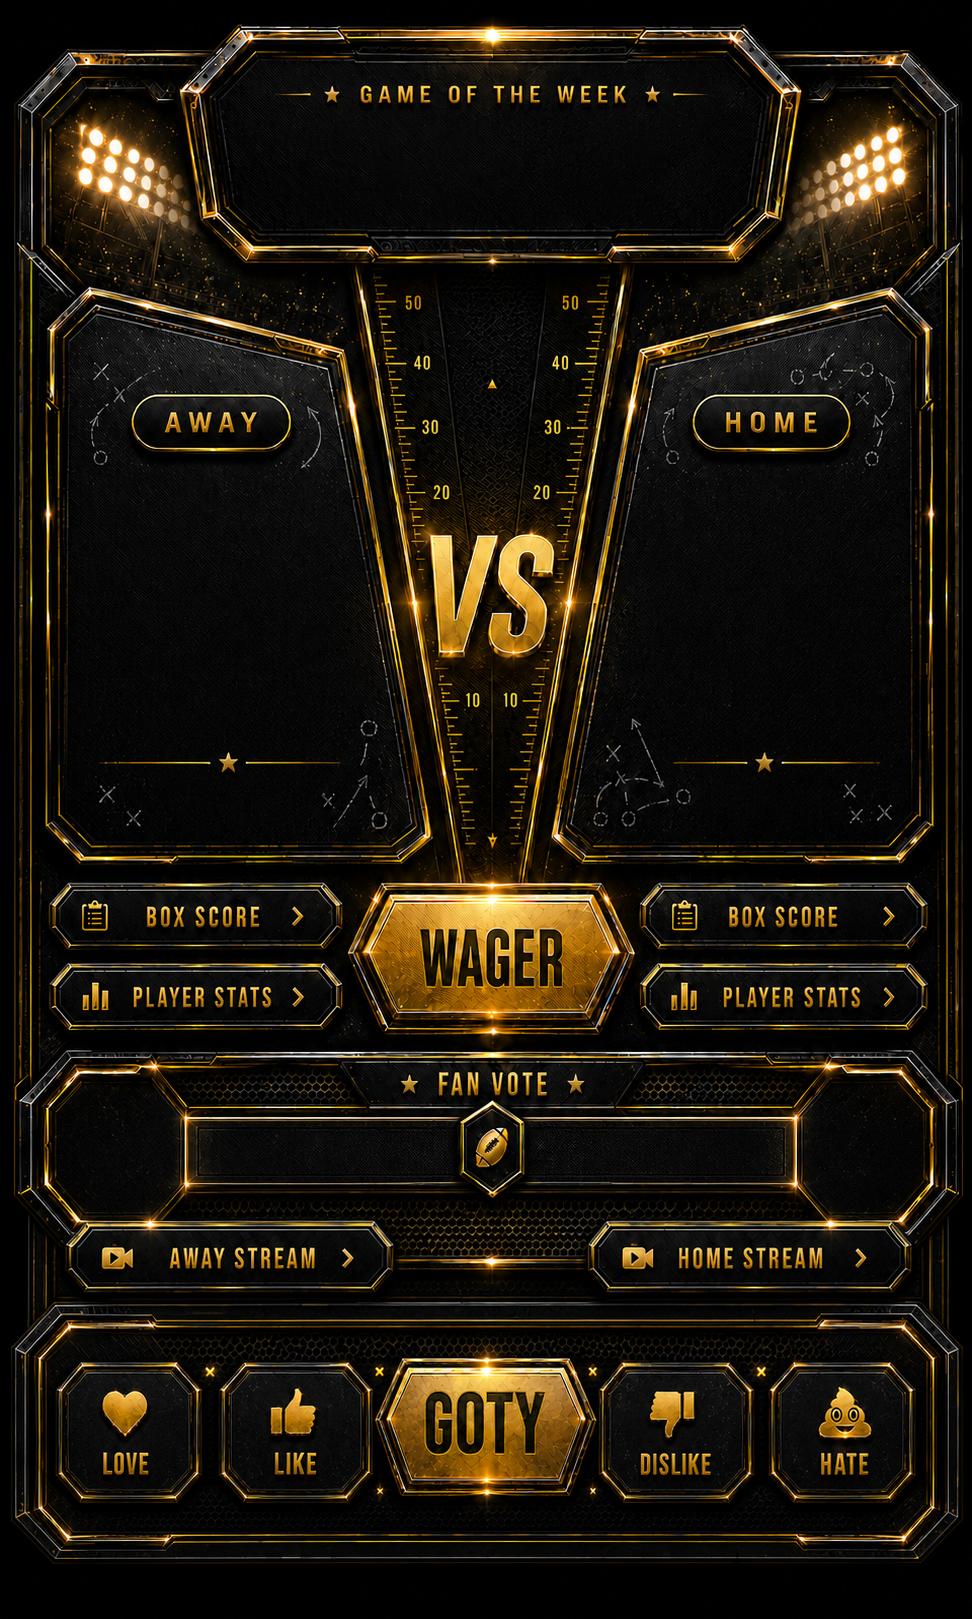
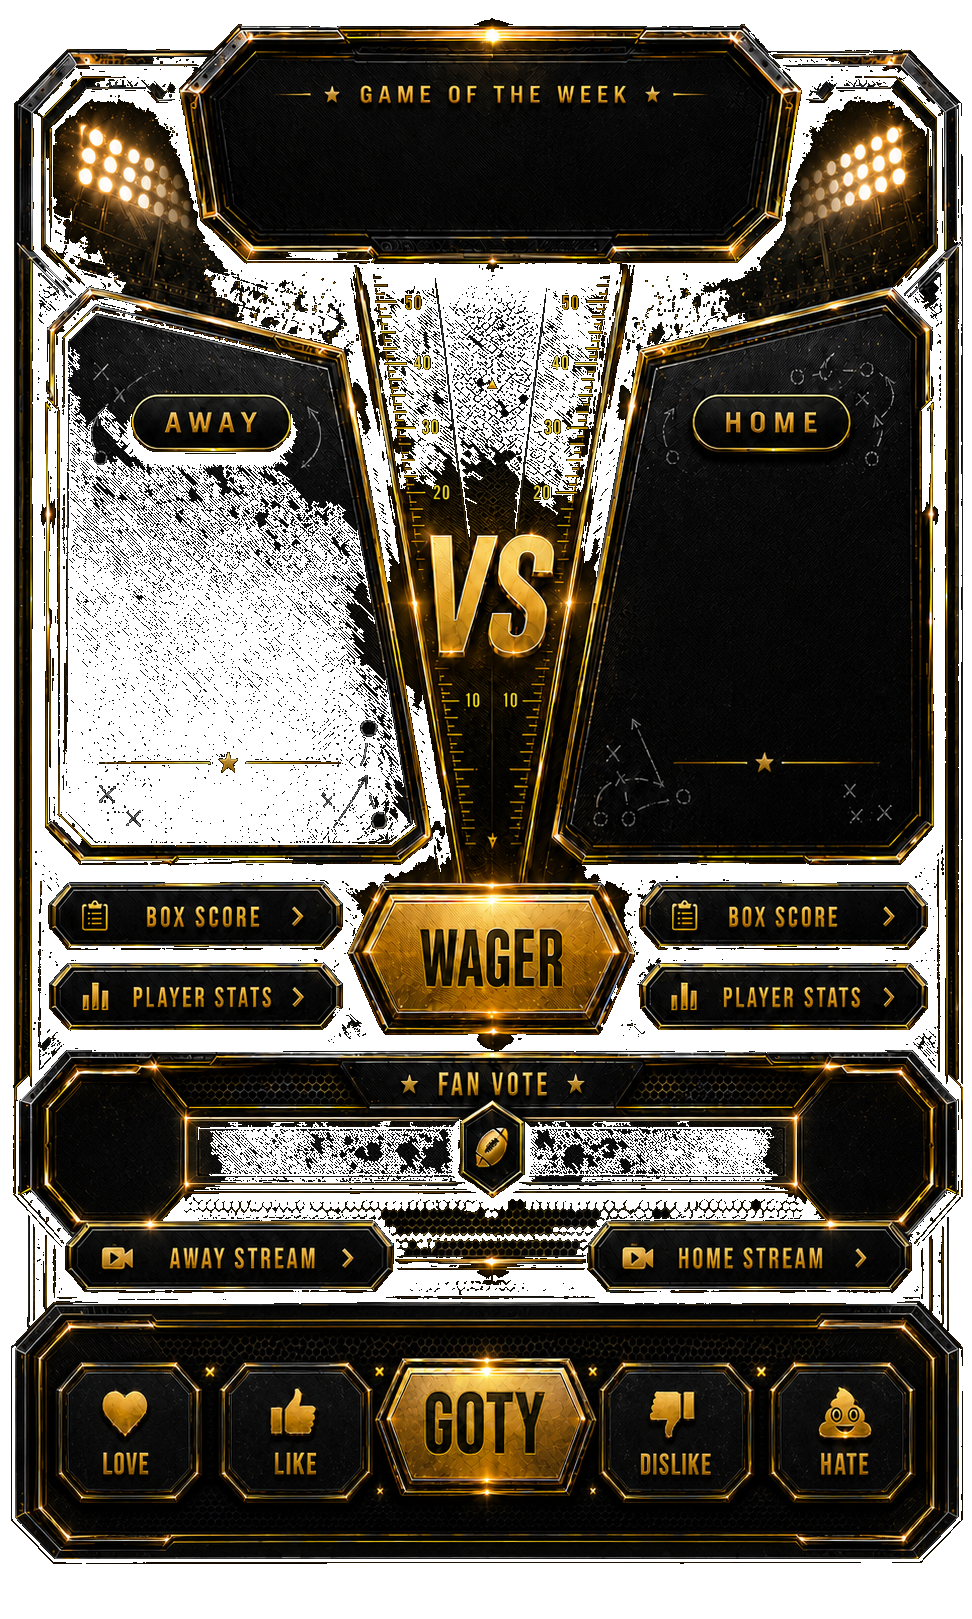
Align interactive matchup overlays to chassis art

Changed region(s): [[0.0, 0.0, 1.0, 1.0]]

diff --git a/apps/web/src/styles/hub.css b/apps/web/src/styles/hub.css
@@ -934,3 +934,83 @@
 .hub-nav-toggle::before { display:none !important; }
 .hub-nav-toggle svg { opacity:0 !important; }
 
+/* Mobile-safe chassis pass: the PNG is the only painted card.  Every remaining
+   element is a transparent, positioned hit target or a dynamic value. */
+.hub-matchup-schedule { gap:28px; }
+.hub-matchup-stack { background:transparent !important; }
+.hub-matchup-schedule .hub-matchup-card {
+  display:block !important;
+  position:relative !important;
+  width:100%;
+  aspect-ratio:2 / 3;
+  min-height:0;
+  padding:0 !important;
+  border:0 !important;
+  border-radius:0 !important;
+  background-color:transparent !important;
+  background-repeat:no-repeat !important;
+  background-size:100% 100% !important;
+  box-shadow:0 18px 42px rgba(0,0,0,.44) !important;
+  overflow:visible !important;
+}
+.hub-matchup-schedule .hub-matchup-card.gotw { aspect-ratio:972 / 1619; }
+.hub-matchup-schedule .hub-matchup-card.cpu { background-image:url("/assets/hub/matchup-h2h-chassis-v1.png") !important; }
+.hub-matchup-card > .hub-matchup-card-head,
+.hub-matchup-card > .hub-matchup-board,
+.hub-matchup-card > .hub-matchup-rails { position:absolute; left:0; right:0; width:auto; margin:0; }
+.hub-matchup-card > .hub-matchup-card-head { top:0; height:17%; display:block !important; padding:0 !important; background:transparent !important; border:0 !important; z-index:6; }
+.hub-matchup-card-head span,.hub-matchup-card-head small { display:none !important; }
+.hub-matchup-card-head strong { position:absolute; inset:56% 0 auto; display:block; padding:0 !important; color:#f4f2eb !important; font-family:var(--font-display); font-size:clamp(20px,5.2vw,48px) !important; font-weight:950; letter-spacing:.04em; line-height:1; text-align:center; text-shadow:0 3px 0 #111,0 0 12px rgba(255,215,73,.46); }
+.hub-matchup-card > .hub-matchup-board { top:17%; height:43.5%; display:grid !important; grid-template-columns:42% 16% 42% !important; gap:0 !important; padding:0 !important; align-items:stretch !important; z-index:5; }
+.hub-matchup-board .hub-team-side { position:relative; display:block !important; min-width:0; min-height:0 !important; height:100%; padding:0 !important; border:0 !important; border-radius:0 !important; background:transparent !important; box-shadow:none !important; text-align:center; color:#f1f1ef; }
+.hub-matchup-board .hub-team-side > span { display:none !important; }
+.hub-matchup-board .hub-team-side-vote { cursor:pointer; touch-action:manipulation; }
+.hub-matchup-board .hub-team-side-vote.away { clip-path:polygon(8% 1%,87% 4%,100% 11%,100% 91%,88% 98%,8% 96%,0 89%,0 11%); }
+.hub-matchup-board .hub-team-side-vote.home { clip-path:polygon(13% 4%,92% 1%,100% 11%,100% 89%,92% 96%,12% 98%,0 91%,0 11%); }
+.hub-matchup-board .hub-team-side-vote:hover:not(:disabled),.hub-matchup-board .hub-team-side-vote.active { background:rgba(217,165,33,.08) !important; box-shadow:inset 0 0 30px rgba(217,165,33,.18) !important; }
+.hub-matchup-board .hub-team-side-vote:active:not(:disabled) { transform:translateY(3px) scale(.985); filter:brightness(1.22); }
+.hub-matchup-board .hub-team-wordmark,.hub-matchup-board .hub-team-side b { position:absolute; top:43%; left:7%; width:86%; max-width:86%; margin:0; display:block; overflow:hidden; text-align:center; text-wrap:balance; font-size:clamp(20px,5.5vw,52px) !important; font-weight:950; letter-spacing:.01em; line-height:.94; white-space:normal; color:transparent !important; background:linear-gradient(180deg,#fffef7 0%,#e8e6dc 45%,#93908a 53%,#fffdf4 100%); -webkit-background-clip:text; background-clip:text; text-shadow:0 4px 0 #0a0a09,0 0 13px rgba(255,255,255,.16); transform:translateY(-50%) !important; }
+.hub-matchup-board .hub-team-side small { position:absolute; left:8%; right:8%; top:58%; display:block; margin:0; color:#d9d5c8 !important; font-family:var(--font-display); font-size:clamp(8px,1.55vw,13px) !important; font-weight:900; letter-spacing:.08em; line-height:1; text-align:center; text-transform:uppercase; text-shadow:0 2px 3px #000; }
+.hub-matchup-board .hub-team-side-vote small { display:none !important; }
+.hub-matchup-board .hub-team-side em { position:absolute; left:8%; right:8%; top:58%; display:block; margin:0; color:#d9d5c8; font-family:var(--font-display); font-size:clamp(7px,1.25vw,12px); font-style:normal; font-weight:800; letter-spacing:.12em; line-height:1; text-align:center; text-transform:uppercase; text-shadow:0 2px 3px #000; }
+.hub-matchup-board .hub-score-center { position:relative; display:grid !important; place-items:center; height:100%; background:transparent !important; clip-path:none !important; }
+.hub-matchup-board .hub-score-center > span { display:none !important; }
+.hub-matchup-board .hub-score-center strong { position:relative; z-index:4; display:grid; place-items:center; color:#ffe071; font-family:var(--font-display); font-size:clamp(26px,6vw,64px) !important; text-shadow:0 4px 8px #000,0 0 16px rgba(217,165,33,.46); }
+.hub-matchup-card > .hub-matchup-rails { top:60%; height:11%; display:grid !important; grid-template-columns:38% 24% 38% !important; gap:0 !important; padding:0 !important; align-items:stretch !important; z-index:8; }
+.hub-team-control-rail { display:grid !important; grid-template-rows:repeat(2,minmax(0,1fr)) !important; gap:8% !important; padding:0 !important; }
+.hub-team-control-rail button,.hub-center-control-rail .btn,.hub-center-control-rail .status-chip { min-width:0; min-height:0; height:100%; padding:0 !important; border:0 !important; border-radius:0 !important; background:transparent !important; box-shadow:none !important; color:transparent !important; font-size:0 !important; text-indent:-9999px; overflow:hidden; cursor:pointer; }
+.hub-team-control-rail button:active:not(:disabled),.hub-center-control-rail .btn:active { transform:translateY(3px) scale(.985); filter:brightness(1.25); background:rgba(217,165,33,.18) !important; }
+.hub-team-control-rail button:disabled { opacity:.32; cursor:not-allowed; }
+.hub-matchup-card > .hub-gotw-meter-edge { top:69%; left:13%; right:13%; bottom:auto; height:9%; min-height:0; display:grid !important; grid-template-columns:19% 62% 19%; gap:0 !important; align-items:center !important; padding:0 !important; border:0 !important; border-radius:0 !important; background:transparent !important; box-shadow:none !important; pointer-events:none; }
+.hub-gotw-meter-edge i { display:block; width:100%; height:32%; min-height:7px; border:1px solid rgba(255,225,127,.86); border-radius:999px; }
+.hub-gotw-meter-side { display:flex; flex-direction:column; align-items:center; justify-content:center; gap:2px; color:#ffe071; font-family:var(--font-display); text-align:center; text-shadow:0 2px 3px #000; }
+.hub-gotw-meter-side strong { font-size:clamp(12px,3vw,26px); line-height:1; }
+.hub-gotw-meter-side small { color:#f4f0df; font-size:clamp(7px,1.45vw,12px); font-weight:900; letter-spacing:.05em; text-transform:uppercase; }
+.hub-matchup-card > .hub-stream-sides { top:78.5%; left:7%; right:7%; bottom:auto; height:6%; display:grid !important; grid-template-columns:repeat(2,minmax(0,1fr)) !important; gap:25% !important; pointer-events:none; z-index:9; }
+.hub-matchup-card > .hub-stream-sides .hub-team-stream { position:relative; min-height:0 !important; height:100%; padding:0 !important; border:0 !important; border-radius:0 !important; background:transparent !important; box-shadow:none !important; pointer-events:auto; }
+.hub-matchup-card > .hub-stream-sides .hub-team-stream-head { position:relative; display:block !important; height:100%; }
+.hub-matchup-card > .hub-stream-sides .hub-team-stream-head span,.hub-matchup-card > .hub-stream-sides .hub-team-stream-head a { position:absolute; inset:0; display:block; overflow:hidden; font-size:0; text-indent:-9999px; }
+.hub-matchup-card > .hub-stream-sides .hub-team-stream-head small { position:absolute; top:55%; left:0; right:0; display:block; color:#ffe071; font-family:var(--font-display); font-size:clamp(8px,1.35vw,13px); font-weight:900; text-align:center; text-shadow:0 2px 3px #000; }
+.hub-matchup-card > .hub-game-reaction-bar,.hub-matchup-card > .hub-cpu-bottom { position:absolute; top:87%; left:4%; right:4%; bottom:auto; width:auto; height:10.5%; margin:0 !important; z-index:10; }
+.hub-matchup-card > .hub-game-reaction-bar { background:transparent !important; }
+.hub-matchup-card > .hub-cpu-bottom > .hub-game-reaction-bar { position:relative; inset:auto; width:100%; height:100%; background:transparent !important; }
+.hub-game-reaction-bar button { min-width:0; height:100%; cursor:pointer; touch-action:manipulation; }
+.hub-game-reaction-bar button:active { transform:translateY(3px) scale(.985); filter:brightness(1.25); }
+.hub-game-reaction-bar button > span:not(.hub-poop) { top:7%; right:6%; }
+.hub-matchup-card > .hub-matchup-admin-slot { top:9%; right:3%; z-index:12; }
+.hub-matchup-card > .hub-matchup-admin-slot .btn { font-size:clamp(9px,1.8vw,14px); }
+.hub-matchup-card:not(.gotw) > .hub-gotw-meter-edge { display:none !important; }
+.hub-nav-toggle { width:64px !important; height:64px !important; min-height:64px !important; padding:0 !important; border:0 !important; border-radius:50% !important; background-color:transparent !important; background-position:center !important; background-size:100% 100% !important; box-shadow:none !important; }
+
+@media (max-width:700px) {
+  .hub-matchup-schedule { gap:26px; }
+  .hub-matchup-card-head strong { font-size:clamp(18px,5vw,32px) !important; }
+  .hub-matchup-board .hub-team-wordmark,.hub-matchup-board .hub-team-side b { font-size:clamp(17px,5.5vw,34px) !important; }
+  .hub-matchup-board .hub-team-side small { font-size:clamp(8px,1.9vw,12px) !important; }
+  .hub-matchup-board .hub-team-side em { font-size:clamp(6px,1.35vw,9px); }
+  .hub-matchup-card > .hub-matchup-rails { top:59.5%; height:11.5%; }
+  .hub-matchup-card > .hub-gotw-meter-edge { top:69%; left:9%; right:9%; }
+  .hub-matchup-card > .hub-stream-sides { top:78.5%; left:6%; right:6%; gap:20% !important; }
+  .hub-matchup-card > .hub-game-reaction-bar,.hub-matchup-card > .hub-cpu-bottom { top:87%; left:3%; right:3%; height:10.5%; }
+}
+

diff --git a/apps/web/src/routes/hub/HubHome.tsx b/apps/web/src/routes/hub/HubHome.tsx
@@ -1114,10 +1114,10 @@ export function HubHome() {
             </div>
             {schedule.games.length ? <div className="hub-matchups hub-matchup-schedule">{schedule.games.map((game) => (<div className={`hub-matchup-stack${(game.isGameOfWeek || schedule.gotw?.gameId === game.gameId) ? " gotw" : ""}`} key={game.gameId}>
               <article className={(game.matchupType === "h2h" ? "hub-matchup-card h2h" : "hub-matchup-card cpu") + ((game.isGameOfWeek || schedule.gotw?.gameId === game.gameId) ? " gotw" : "")}>
-                <div className="hub-matchup-card-head"><span>{(game.isGameOfWeek || schedule.gotw?.gameId === game.gameId) ? "" : game.matchupType === "h2h" ? "" : "Human vs CPU"}</span><strong>Week {game.weekNumber}</strong><small>{(game.isGameOfWeek || schedule.gotw?.gameId === game.gameId) && schedule.gotw ? (schedule.gotw.status === "open" ? "Vote now" : "Voting closed") : [game.awayConference, game.homeConference].filter(Boolean).join(" vs ")}</small></div>
+                <div className="hub-matchup-card-head"><span aria-hidden="true" /><strong>Week {game.weekNumber}</strong><small>{(game.isGameOfWeek || schedule.gotw?.gameId === game.gameId) && schedule.gotw ? (schedule.gotw.status === "open" ? "Vote now" : "Voting closed") : [game.awayConference, game.homeConference].filter(Boolean).join(" vs ")}</small></div>
                 <div className="hub-matchup-board">
                   {(game.isGameOfWeek || schedule.gotw?.gameId === game.gameId) && schedule.gotw ? <button type="button" className={`hub-team-side hub-team-side-vote away${schedule.gotw.myVote === schedule.gotw.awayTeamId ? " active" : ""}`} disabled={schedule.gotw.status !== "open"} onClick={() => void voteGotw(schedule.gotw!.awayTeamId)} aria-label={`Vote for ${game.awayTeamName}`}><span>Away</span><b style={{ fontSize: matchupWordmarkSize(game.awayTeamName) }}>{game.awayTeamName}</b><small>{schedule.gotw.awayVotes} vote{schedule.gotw.awayVotes === 1 ? "" : "s"}</small><em>{game.awayConference ?? "Visiting team"}</em></button> : <div className="hub-team-side"><span>Away</span><div className="hub-team-wordmark" style={{ fontSize: matchupWordmarkSize(game.awayTeamName) }}>{game.awayTeamName}</div><small>{game.awayConference ?? "Visiting team"}</small></div>}
-                  <div className="hub-score-center"><span>{game.isFinal ? "Final" : "Versus"}</span><strong>{game.isFinal && game.awayScore != null && game.homeScore != null ? `${game.awayScore}–${game.homeScore}` : "VS"}</strong></div>
+                  <div className="hub-score-center"><span aria-hidden="true" />{game.isFinal && game.awayScore != null && game.homeScore != null ? <strong>{`${game.awayScore}–${game.homeScore}`}</strong> : null}</div>
                   {(game.isGameOfWeek || schedule.gotw?.gameId === game.gameId) && schedule.gotw ? <button type="button" className={`hub-team-side hub-team-side-vote home${schedule.gotw.myVote === schedule.gotw.homeTeamId ? " active" : ""}`} disabled={schedule.gotw.status !== "open"} onClick={() => void voteGotw(schedule.gotw!.homeTeamId)} aria-label={`Vote for ${game.homeTeamName}`}><span>Home</span><b style={{ fontSize: matchupWordmarkSize(game.homeTeamName) }}>{game.homeTeamName}</b><small>{schedule.gotw.homeVotes} vote{schedule.gotw.homeVotes === 1 ? "" : "s"}</small><em>{game.homeConference ?? "Home team"}</em></button> : <div className="hub-team-side"><span>Home</span><div className="hub-team-wordmark" style={{ fontSize: matchupWordmarkSize(game.homeTeamName) }}>{game.homeTeamName}</div><small>{game.homeConference ?? "Home team"}</small></div>}
                 </div>
                 <div className="hub-matchup-rails">
@@ -1126,7 +1126,7 @@ export function HubHome() {
                   {game.matchupType === "human_cpu" ? <div className="hub-team-control-rail home"><button disabled={game.isFinal || !game.boxScoreSubmissionId} onClick={() => void openPlayerStats(game)}>Player Stats</button></div> : <div className="hub-team-control-rail home"><button disabled={game.viewerSide !== "home" || game.isFinal || Boolean(game.boxScoreSubmissionId)} onClick={() => setBoxScoreUploadGame(game)}>Box Score</button><button disabled={game.viewerSide !== "home" || !game.boxScoreSubmissionId} onClick={() => void openPlayerStats(game)}>Player Stats</button></div>}
                 </div>
                 {(game.isGameOfWeek || schedule.gotw?.gameId === game.gameId) && schedule.gotw && hub.canManageLeague && schedule.gotw.status === "open" && <div className="hub-matchup-admin-slot"><Button variant="tactical" size="compact" onClick={() => void closeGotw()}>Close Voting</Button></div>}
-                {(game.isGameOfWeek || schedule.gotw?.gameId === game.gameId) && schedule.gotw && (() => { const total = schedule.gotw.awayVotes + schedule.gotw.homeVotes; const away = total ? Math.round(schedule.gotw.awayVotes / total * 100) : 50; return <div className="hub-gotw-meter-edge"><span>{game.awayTeamName} {away}%</span><i style={{ background: `linear-gradient(90deg,rgba(40,34,8,.95) 0%,rgba(64,50,10,.95) 10%,rgba(218,165,32,.95) 35%,rgba(255,226,127,.98) 50%,rgba(218,165,32,.95) 65%,rgba(118,82,16,.95) 100%)`, backgroundSize: "220% 100%", backgroundPosition: `${100 - away}% 50%`, boxShadow: `inset 0 0 22px rgba(255,225,120,.35), 0 0 10px rgba(255,203,58,.25)` }} /><span>{100 - away}% {game.homeTeamName}</span></div>; })()}
+                {(game.isGameOfWeek || schedule.gotw?.gameId === game.gameId) && schedule.gotw && (() => { const total = schedule.gotw.awayVotes + schedule.gotw.homeVotes; const away = total ? Math.round(schedule.gotw.awayVotes / total * 100) : 50; return <div className="hub-gotw-meter-edge"><div className="hub-gotw-meter-side away"><strong>{away}%</strong><small>{schedule.gotw.awayVotes} vote{schedule.gotw.awayVotes === 1 ? "" : "s"}</small></div><i style={{ background: `linear-gradient(90deg,rgba(40,34,8,.95) 0%,rgba(64,50,10,.95) 10%,rgba(218,165,32,.95) 35%,rgba(255,226,127,.98) 50%,rgba(218,165,32,.95) 65%,rgba(118,82,16,.95) 100%)`, backgroundSize: "220% 100%", backgroundPosition: `${100 - away}% 50%`, boxShadow: `inset 0 0 22px rgba(255,225,120,.35), 0 0 10px rgba(255,203,58,.25)` }} /><div className="hub-gotw-meter-side home"><strong>{100 - away}%</strong><small>{schedule.gotw.homeVotes} vote{schedule.gotw.homeVotes === 1 ? "" : "s"}</small></div></div>; })()}
                 {game.matchupType === "human_cpu" ? <div className="hub-cpu-bottom">
                   <div className="hub-game-reaction-bar hub-cpu-reaction-bar" aria-label={`Reactions for ${game.awayTeamName} at ${game.homeTeamName}`}>
                     <button aria-label="Love" className={game.myReactions.includes("love") ? "active" : ""} onClick={() => void matchupGameReact(game.gameId, "love")}>{game.reactionCounts.love > 0 && <span>{game.reactionCounts.love}</span>}</button>

diff --git a/scripts/prepare-matchup-assets.py b/scripts/prepare-matchup-assets.py
@@ -1,0 +1,47 @@
+"""Remove generated checkerboard/matte pixels from the interactive chassis art."""
+
+from collections import deque
+from pathlib import Path
+from PIL import Image
+
+ROOT = Path(__file__).resolve().parents[1]
+HUB = ROOT / "apps" / "web" / "public" / "assets" / "hub"
+
+
+def clear_edge_matte(image: Image.Image, checkerboard: bool = False) -> Image.Image:
+    image = image.convert("RGBA")
+    width, height = image.size
+    pixels = image.load()
+    seen = bytearray(width * height)
+    queue: deque[tuple[int, int]] = deque()
+
+    def background(pixel: tuple[int, int, int, int]) -> bool:
+        r, g, b, _ = pixel
+        if checkerboard:
+            return max(r, g, b) - min(r, g, b) <= 10 and r >= 180
+        return max(r, g, b) <= 12
+
+    for x in range(width):
+        queue.extend(((x, 0), (x, height - 1)))
+    for y in range(height):
+        queue.extend(((0, y), (width - 1, y)))
+    while queue:
+        x, y = queue.popleft()
+        index = y * width + x
+        if seen[index] or not background(pixels[x, y]):
+            continue
+        seen[index] = 1
+        pixels[x, y] = (0, 0, 0, 0)
+        for nx, ny in ((x - 1, y), (x + 1, y), (x, y - 1), (x, y + 1)):
+            if 0 <= nx < width and 0 <= ny < height and not seen[ny * width + nx]:
+                queue.append((nx, ny))
+    return image
+
+
+for filename, checkerboard in (
+    ("matchup-gotw-chassis-v3.png", False),
+    ("matchup-h2h-chassis-v1.png", False),
+    ("menu-button-render.png", True),
+):
+    path = HUB / filename
+    clear_edge_matte(Image.open(path), checkerboard).save(path, format="PNG", optimize=True)